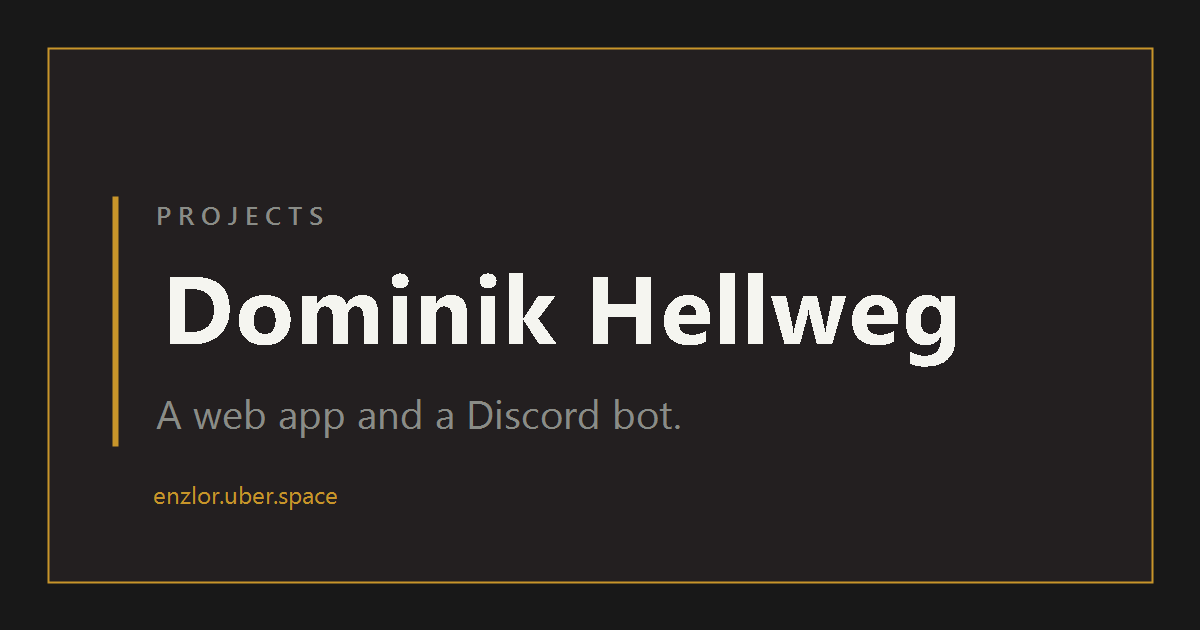
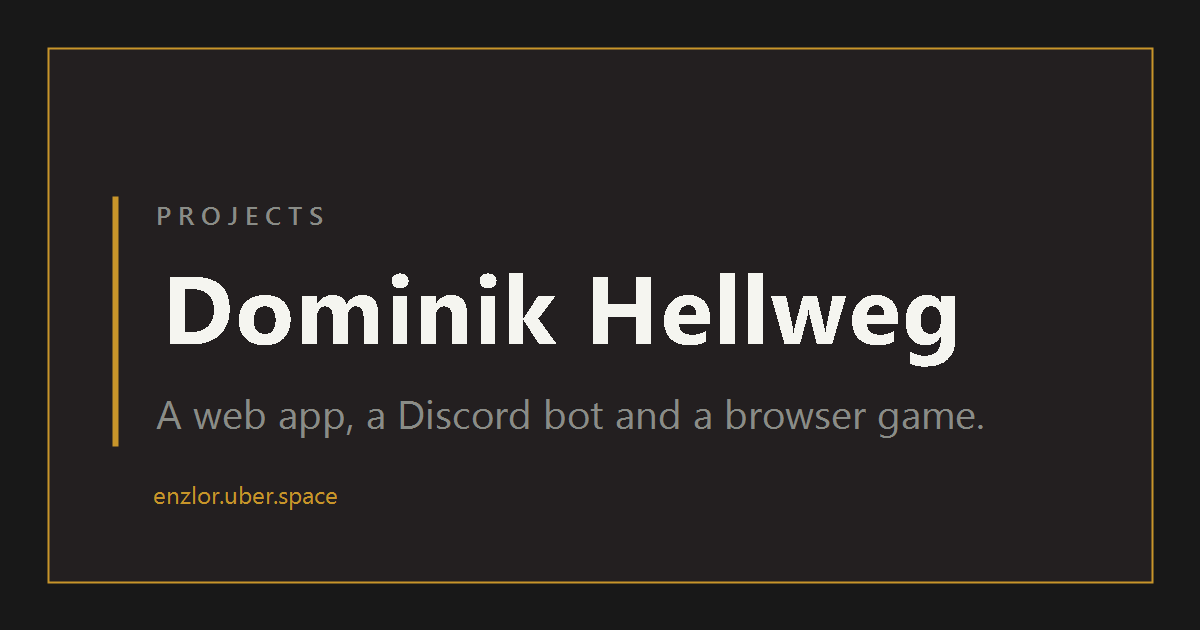
Houses of the Green Dragon in die Uebersicht aufnehmen
Dritte Projektkarte, vorerst ohne Verweis auf eine laufende Fassung: Das
Spiel steht am Anfang und laeuft nirgends oeffentlich. Bleibt beim
neutralen Status, das gruene "Live" ist dem Festival vorbehalten.

Die Aufzaehlung "eine Webanwendung und ein Discord-Bot" stand an sechs
Stellen und ist ueberall mitgezogen: Beschreibungen, Vorspann und das
Vorschaubild-Skript. Im Bild in knapper Form, die ausformulierte Fassung
lief ueber den Rand.

Claude-Session: https://claude.ai/code/session_01SGPcwfskrv6KKUES17gzbq

Changed region(s): [[0.2775, 0.6333, 0.8017, 0.6937]]

diff --git a/public/index.php b/public/index.php
@@ -13,7 +13,7 @@ $besuche = zaehler_stand();
 		<title>Dominik Hellweg – Projekte</title>
 		<meta
 			name="description"
-			content="Übersicht über meine Projekte: ein Planer für private Veranstaltungen und ein Discord-Bot."
+			content="Übersicht über meine Projekte: ein Planer für private Veranstaltungen, ein Discord-Bot und ein Browserspiel."
 		/>
 		<meta name="color-scheme" content="dark" />
 		<meta name="theme-color" content="#181818" />
@@ -39,7 +39,7 @@ $besuche = zaehler_stand();
 		<meta property="og:title" content="Dominik Hellweg – Projekte" />
 		<meta
 			property="og:description"
-			content="Übersicht über meine Projekte: ein Planer für private Veranstaltungen und ein Discord-Bot."
+			content="Übersicht über meine Projekte: ein Planer für private Veranstaltungen, ein Discord-Bot und ein Browserspiel."
 		/>
 		<meta property="og:url" content="https://enzlor.uber.space/" />
 		<meta
@@ -51,7 +51,7 @@ $besuche = zaehler_stand();
 		<meta property="og:image:height" content="630" />
 		<meta
 			property="og:image:alt"
-			content="Dominik Hellweg – Projekte. Eine Webanwendung und ein Discord-Bot."
+			content="Dominik Hellweg – Projekte. Eine Webanwendung, ein Discord-Bot und ein Browserspiel."
 		/>
 		<meta property="og:locale" content="de_DE" />
 		<meta property="og:locale:alternate" content="en_US" />
@@ -116,8 +116,8 @@ $besuche = zaehler_stand();
 			</div>
 			<h1>Projekte</h1>
 			<p class="vorspann">
-				Was hier so läuft – eine Webanwendung zur Veranstaltungsplanung und ein
-				Discord-Bot. Beides offener Quelltext.
+				Was hier so läuft – eine Webanwendung zur Veranstaltungsplanung, ein
+				Discord-Bot und ein Browserspiel im Werden. Alles offener Quelltext.
 			</p>
 		</header>
 
@@ -175,6 +175,33 @@ $besuche = zaehler_stand();
 						<a class="verweis" href="/config" rel="nofollow"
 							>Konfiguration <span class="hinweis">nur Admins</span></a
 						>
+					</p>
+				</li>
+
+				<li class="projekt">
+					<div class="projekt-kopf">
+						<h2>Houses of the Green Dragon</h2>
+						<span class="status">In Entwicklung</span>
+					</div>
+					<p>
+						Browserbasiertes Mittelalter-Spiel, in dem man kein Leben spielt,
+						sondern ein Haus: Der eigene Charakter ist sterblich, nach seinem Tod
+						übernimmt eines seiner Kinder. Wer keine Nachkommen hinterlässt,
+						dessen Dynastie erlischt.
+					</p>
+					<p class="technik">SvelteKit · TypeScript · MariaDB</p>
+					<p class="verweise">
+						<!-- Noch kein Verweis auf eine laufende Fassung: Das Spiel steht ganz
+						     am Anfang und läuft nirgends öffentlich. -->
+						<a
+							class="verweis verweis--haupt"
+							href="https://github.com/denssle/houses-of-the-green-dragon"
+						>
+							<svg class="icon" aria-hidden="true" focusable="false">
+								<use href="#icon-github" />
+							</svg>
+							Quelltext &amp; Konzept
+						</a>
 					</p>
 				</li>
 			</ul>

diff --git a/public/en/index.php b/public/en/index.php
@@ -12,7 +12,7 @@ $besuche = zaehler_stand();
 		<title>Dominik Hellweg – Projects</title>
 		<meta
 			name="description"
-			content="An overview of my projects: a planner for private events and a Discord bot."
+			content="An overview of my projects: a planner for private events, a Discord bot and a browser game."
 		/>
 		<meta name="color-scheme" content="dark" />
 		<meta name="theme-color" content="#181818" />
@@ -37,7 +37,7 @@ $besuche = zaehler_stand();
 		<meta property="og:title" content="Dominik Hellweg – Projects" />
 		<meta
 			property="og:description"
-			content="An overview of my projects: a planner for private events and a Discord bot."
+			content="An overview of my projects: a planner for private events, a Discord bot and a browser game."
 		/>
 		<meta property="og:url" content="https://enzlor.uber.space/en/" />
 		<meta
@@ -49,7 +49,7 @@ $besuche = zaehler_stand();
 		<meta property="og:image:height" content="630" />
 		<meta
 			property="og:image:alt"
-			content="Dominik Hellweg – Projects. A web app and a Discord bot."
+			content="Dominik Hellweg – Projects. A web app, a Discord bot and a browser game."
 		/>
 		<meta property="og:locale" content="en_US" />
 		<meta property="og:locale:alternate" content="de_DE" />
@@ -112,8 +112,8 @@ $besuche = zaehler_stand();
 			</div>
 			<h1>Projects</h1>
 			<p class="vorspann">
-				What runs here – a web application for planning events and a Discord
-				bot. Both open source.
+				What runs here – a web application for planning events, a Discord bot and
+				a browser game in the making. All open source.
 			</p>
 		</header>
 
@@ -171,6 +171,32 @@ $besuche = zaehler_stand();
 						<a class="verweis" href="/config" rel="nofollow"
 							>Configuration <span class="hinweis">admins only</span></a
 						>
+					</p>
+				</li>
+
+				<li class="projekt">
+					<div class="projekt-kopf">
+						<h2>Houses of the Green Dragon</h2>
+						<span class="status">In development</span>
+					</div>
+					<p>
+						A browser-based medieval game where you do not play a life but a
+						house: your character is mortal, and once they die, one of their
+						children takes over. Leave no heirs and the dynasty ends.
+					</p>
+					<p class="technik">SvelteKit · TypeScript · MariaDB</p>
+					<p class="verweise">
+						<!-- Noch kein Verweis auf eine laufende Fassung: Das Spiel steht ganz
+						     am Anfang und läuft nirgends öffentlich. -->
+						<a
+							class="verweis verweis--haupt"
+							href="https://github.com/denssle/houses-of-the-green-dragon"
+						>
+							<svg class="icon" aria-hidden="true" focusable="false">
+								<use href="#icon-github" />
+							</svg>
+							Source &amp; concept
+						</a>
 					</p>
 				</li>
 			</ul>

diff --git a/README.md b/README.md
@@ -31,9 +31,9 @@ public/
 
 **Beide Sprachfassungen sind eigenständige Dateien.** Seit dem Zähler liegt PHP
 auf dem Server, gemeinsame Bausteine wären also möglich – es bleibt trotzdem bei
-zwei vollständigen Dateien. Eine Seite mit zwei Projektkarten rechtfertigt keine
-Schablonen; wer eine Fassung liest, sieht sie ganz. Der Preis: eine Änderung am
-Inhalt muss in **beiden** Dateien passieren.
+zwei vollständigen Dateien. Eine Seite mit einer Handvoll Projektkarten
+rechtfertigt keine Schablonen; wer eine Fassung liest, sieht sie ganz. Der Preis:
+eine Änderung am Inhalt muss in **beiden** Dateien passieren.
 
 Die Sprache wird **nicht** automatisch erkannt: `/` ist immer deutsch, gewechselt
 wird über den Umschalter oben rechts.
